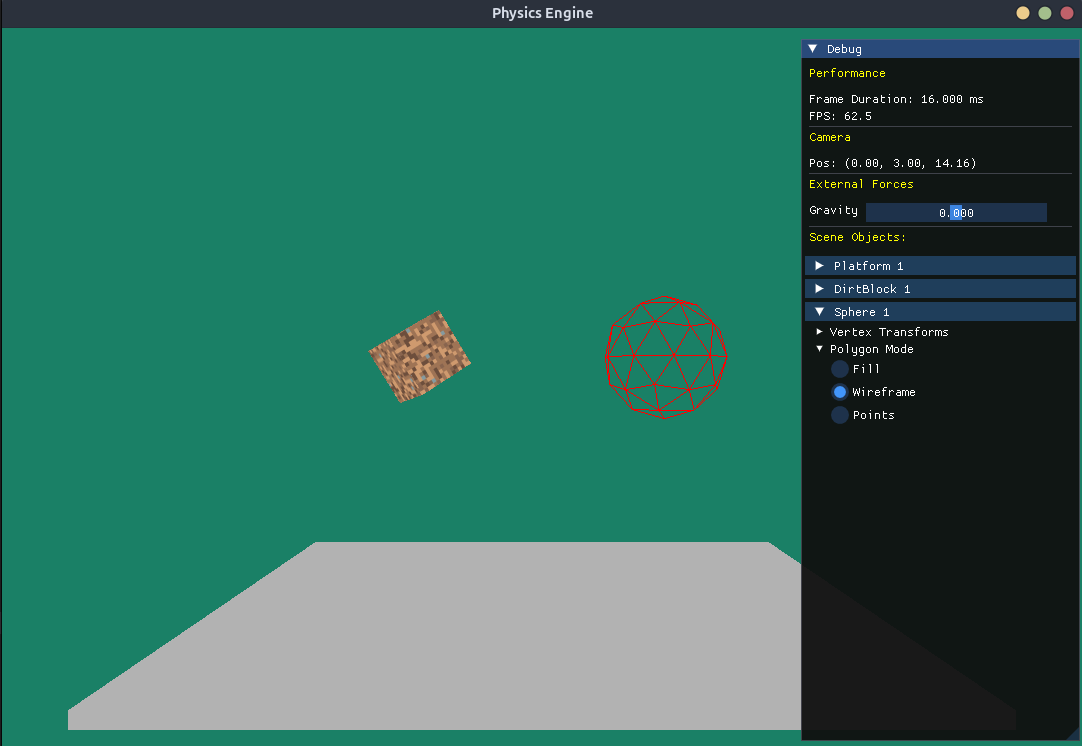
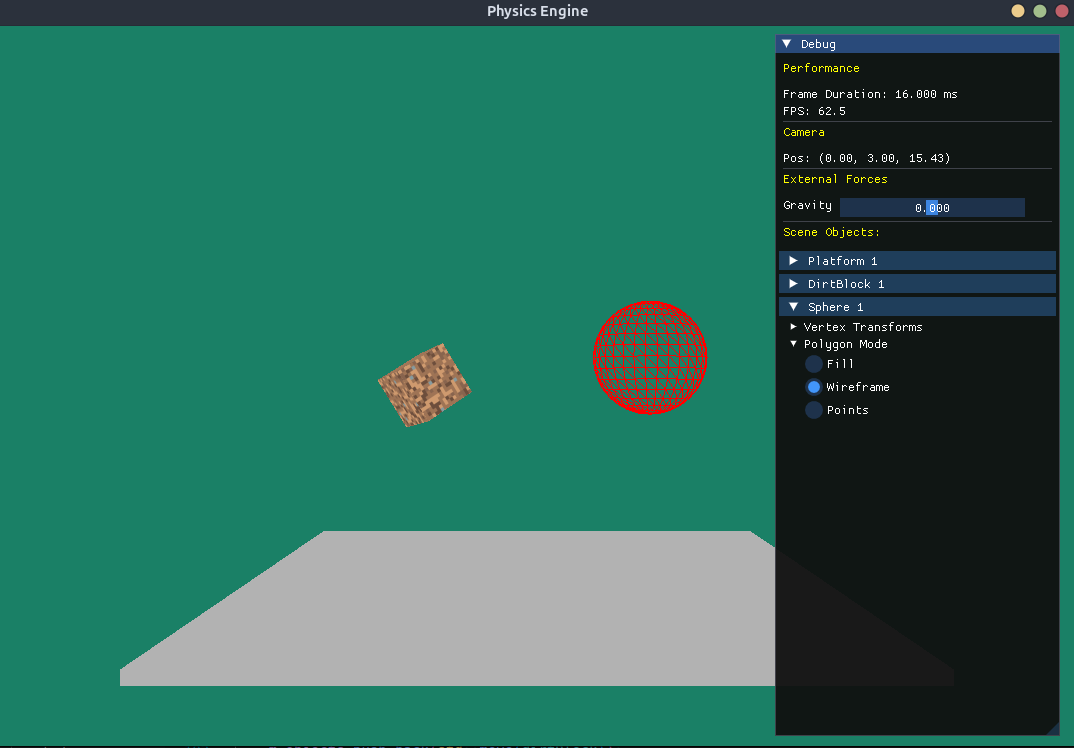
revert back to commit with assimp implementation

diff --git a/src/Scene.cpp b/src/Scene.cpp
@@ -23,7 +23,7 @@ Scene::Scene(
     Shader sphereShader = m_shaderManager->getShader("sphere");
 
     Mesh cubeMesh = m_meshManager->getMesh("cube");
-    // Mesh sphereMesh = m_meshManager->getMesh("sphere");
+    Mesh sphereMesh = m_meshManager->getMesh("sphere");
 
     Texture dirtBlockTexture = m_textureManager->getTexture("dirtblock");
 
@@ -75,7 +75,7 @@ Scene::Scene(
     // dirtBlock
     Transform dirtBlockTransform;
     dirtBlockTransform.setProjection(*m_camera);
-    glm::vec3 dirtBlockPosition(0.0f, 1.0f, 0.0f);
+    glm::vec3 dirtBlockPosition(-2.0f, 3.0f, 0.0f);
     glm::mat4 dirtBlockTranslationMatrix = glm::translate(
         glm::mat4(1.0f),
         dirtBlockPosition
@@ -87,7 +87,7 @@ Scene::Scene(
     );
     dirtBlockTranslationMatrix = glm::scale(
         dirtBlockTranslationMatrix,
-        glm::vec3(1.0f, 1.0f, 1.0f)
+        glm::vec3(0.5f, 0.5f, 0.5f)
     );
     dirtBlockTransform.setModel(dirtBlockTranslationMatrix);
     dirtBlockTransform.setView(*m_camera);
@@ -101,28 +101,28 @@ Scene::Scene(
     );
     m_objects.push_back(std::move(dirtBlock));
 
-    // // sphere
-    // Transform sphereTransform;
-    // sphereTransform.setProjection(*m_camera);
-    // glm::vec3 spherePosition(2.0f, 3.5f, 0.0f);
-    // glm::mat4 sphereTranslationMatrix = glm::translate(
-    //     glm::mat4(1.0f),
-    //     spherePosition
-    // );
-    // sphereTranslationMatrix = glm::scale(
-    //     sphereTranslationMatrix,
-    //     glm::vec3(1.0f, 1.0f, 1.0f)
-    // );
-    // sphereTransform.setModel(sphereTranslationMatrix);
-    // sphereTransform.setView(*m_camera);
-    // auto sphere = std::make_unique<Sphere>(
-    //     "Sphere",
-    //     sphereTransform,
-    //     sphereShader,
-    //     sphereMesh,
-    //     false
-    // );
-    // m_objects.push_back(std::move(sphere));
+    // sphere
+    Transform sphereTransform;
+    sphereTransform.setProjection(*m_camera);
+    glm::vec3 spherePosition(2.0f, 3.5f, 0.0f);
+    glm::mat4 sphereTranslationMatrix = glm::translate(
+        glm::mat4(1.0f),
+        spherePosition
+    );
+    sphereTranslationMatrix = glm::scale(
+        sphereTranslationMatrix,
+        glm::vec3(1.0f, 1.0f, 1.0f)
+    );
+    sphereTransform.setModel(sphereTranslationMatrix);
+    sphereTransform.setView(*m_camera);
+    auto sphere = std::make_unique<Sphere>(
+        "Sphere",
+        sphereTransform,
+        sphereShader,
+        sphereMesh,
+        false
+    );
+    m_objects.push_back(std::move(sphere));
 
     std::cout << name << " created.\n";
 }
@@ -183,8 +183,6 @@ void Scene::applyPBD(
     float deltaTime
 )
 {
-
-
     std::vector<float> M = object.getMass();
     std::vector<std::vector<int>> distanceConstraintVertexPairs = object.getMesh().distanceConstraintVertices;
     std::vector<std::vector<int>> volumeConstraintVertexTriples = object.getMesh().volumeConstraintVertices;
@@ -194,8 +192,6 @@ void Scene::applyPBD(
 
     std::vector<std::function<std::vector<glm::vec3>(const std::vector<glm::vec3>&)>> gradDistanceC = object.getMesh().gradDistanceConstraints;
     std::vector<std::function<std::vector<glm::vec3>(const std::vector<glm::vec3>&)>> gradVolumeC = object.getMesh().gradVolumeConstraints;
-
-
 
     std::vector<glm::vec3> x(object.getVertexTransforms().size(), glm::vec3(0.0f));
     std::vector<glm::vec3> v(object.getVertexTransforms().size(), glm::vec3(0.0f));
@@ -227,10 +223,6 @@ void Scene::applyPBD(
 
             posDiff[i] = x[i] - p[i];
         }
-
-        // // initialize differences of old and new positions and lambdas
-        // std::vector<float> lambdaDifference(C.size(), 0.0f);
-        // std::vector<float> positionDifference(x.size(), 0.0f);
 
         std::vector<glm::vec3> deltaX;
 

diff --git a/src/PhysicsEngine.cpp b/src/PhysicsEngine.cpp
@@ -86,10 +86,10 @@ PhysicsEngine::PhysicsEngine(
         "../res/meshes/cube.obj"
     );
 
-    // auto sphereMesh = std::make_unique<Mesh>(
-    //     "sphere",
-    //     "../res/meshes/sphere.obj"
-    // );
+    auto sphereMesh = std::make_unique<Mesh>(
+        "sphere",
+        "../res/meshes/sphere.obj"
+    );
 
     // initialize textures
     auto dirtBlockTexture = std::make_unique<Texture>(
@@ -102,7 +102,7 @@ PhysicsEngine::PhysicsEngine(
     shaderManager->addShader(std::move(dirtBlockShader));
     shaderManager->addShader(std::move(sphereShader));
     meshManager->addMesh(std::move(cubeMesh));
-    // meshManager->addMesh(std::move(sphereMesh));
+    meshManager->addMesh(std::move(sphereMesh));
     textureManager->addTexture(std::move(dirtBlockTexture));
 
     float FOV = 45.0f;
